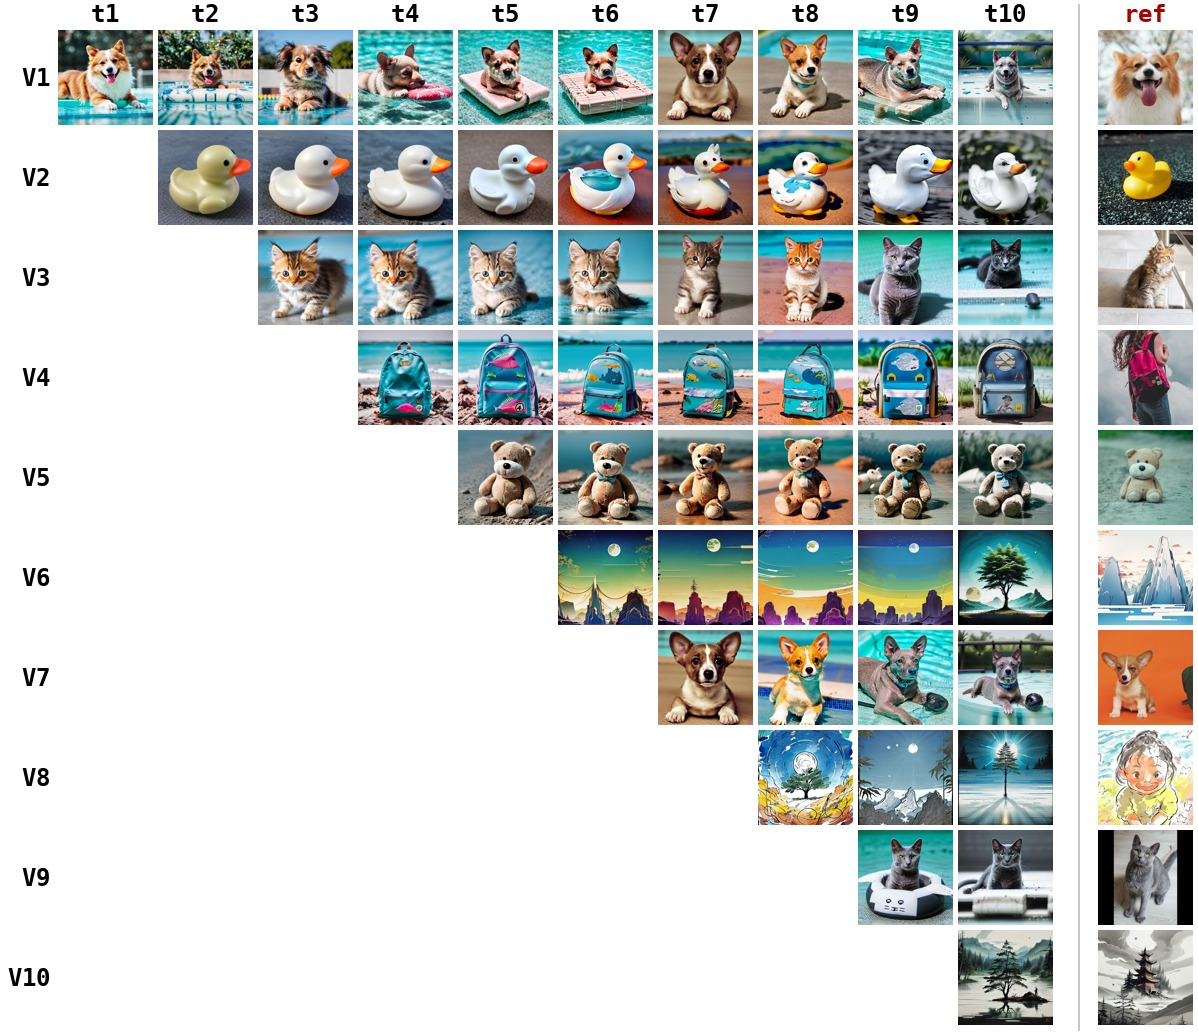
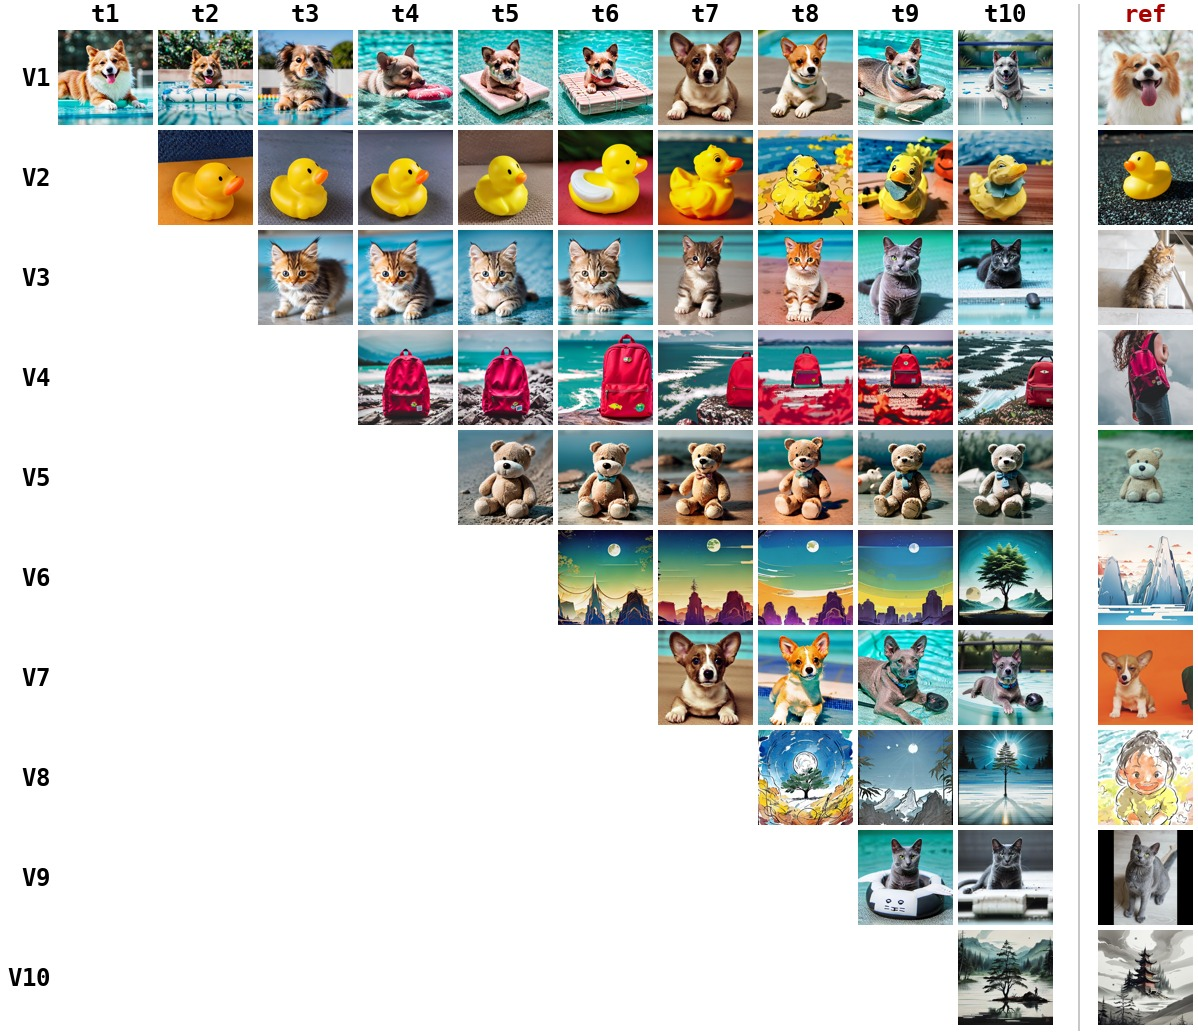
docs: regularization results in README

Changed region(s): [[0.278, 0.3092, 0.8957, 0.4329], [0.1235, 0.1237, 0.8957, 0.2164]]

diff --git a/README.md b/README.md
@@ -106,16 +106,45 @@ CIDM-faithful evaluation on the 10-task CIFC sequence (CLIP-T / CLIP-I are CIDM'
 
 | | CLIP-T | CLIP-I | DINO |
 |---|---|---|---|
-| Just-learned (diagonal of the matrix) | 0.723 | **0.790** | 0.604 |
-| After full sequence (final) | 0.732 | 0.729 | 0.423 |
-| **Forgetting** (mean peak − final) | – | +0.067 | **+0.202** |
+| Just-learned (diagonal of the matrix) | – | **0.804** | 0.631 |
+| After full sequence (final) | 0.739 | 0.742 | 0.447 |
+| **Forgetting** (DINO, mean peak − final) | | | **+0.203** |
 
-The per-concept fidelity *when a concept is first learned* already matches CIDM's reported final
-numbers (their CIDM IA ≈ 0.78), so per-concept learning is not the bottleneck — **the gap is
-forgetting**, which is exactly what Step 2 targets. The forgetting is visible in
-`forgetting_grid.jpg` (each row degrades left→right as later tasks overwrite the shared weights):
+The per-concept fidelity *when a concept is first learned* (diagonal CLIP-I ≈ 0.80) already matches
+CIDM's reported final number (their IA ≈ 0.78), so per-concept learning is not the bottleneck —
+**the gap is forgetting**. It is visible in `forgetting_grid.jpg` (each row degrades left→right as
+later tasks overwrite the shared weights — e.g. the corgi in row V1 turns into a generic grey dog):
 
-![forgetting grid](assets/forgetting_grid.jpg)
+![Step 1 forgetting grid](assets/forgetting_grid.jpg)
+
+## Results — Step 2: continual regularization (von Oswald)
+
+The two-stage von-Oswald output regularization (`reg.weight = β`, arXiv:1906.00695) keeps the
+hypernetwork's LoRA output on old concepts stable while new ones are learned. Final / forgetting on
+the same 10-task sequence:
+
+| run | CLIP-T | CLIP-I | DINO | Forgetting (DINO) |
+|---|---|---|---|---|
+| baseline (β=0) | 0.739 | 0.742 | 0.447 | +0.203 |
+| β=0.5 | 0.770 | 0.750 | 0.484 | +0.127 |
+| β=5 | 0.765 | 0.755 | 0.504 | +0.106 |
+| β=50 | 0.765 | 0.755 | 0.510 | +0.090 |
+| β=100 | 0.755 | **0.772** | **0.546** | **+0.069** |
+
+Regularization **monotonically cuts forgetting** (DINO +0.203 → +0.069, ≈ −66%) while *raising*
+final fidelity, with the just-learned quality essentially held. At β=100 our CLIP-I (0.772) is
+within 0.01 of CIDM's reported IA (0.780) — with a generic hypernetwork regularizer, no
+concept-specific consolidation. The β=100 grid keeps each concept on-identity across the sequence:
+
+![Step 2 (β=100) forgetting grid](assets/forgetting_grid_reg.jpg)
+
+```bash
+python -m src.train_cl --config configs/cl_unhype_reg.yaml --reg_weight 100 --output_dir outputs/cl_reg_b100
+```
+
+**Known limitation.** Same-class instances (e.g. two different cats) are only weakly separated by the
+prompt-pooled conditioning (cosine ≈ 0.79 within a class vs ≈ 0.5 across classes), so the later one
+can overwrite the earlier — orthogonal to β.
 
 ## Reusing this repo (for a different approach)
 
